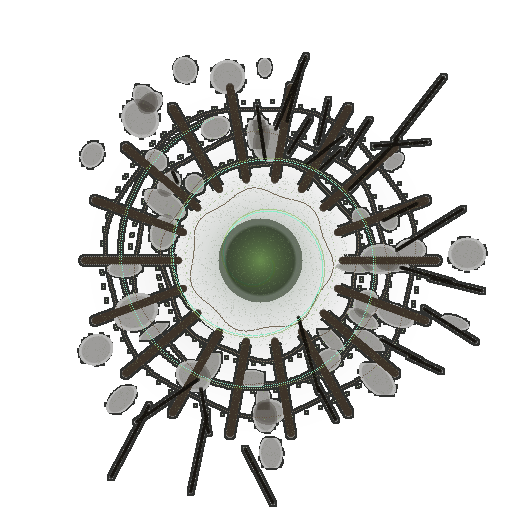
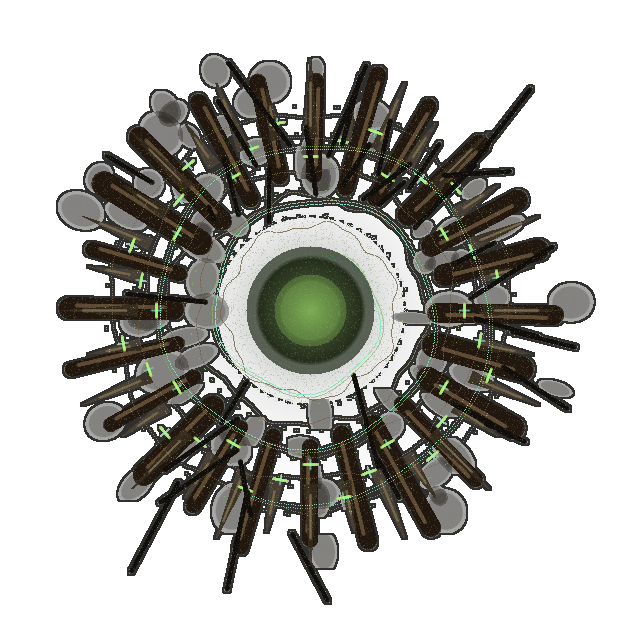
Make Slither center gate more imposing

diff --git a/scripts/generate-slither-assets.js b/scripts/generate-slither-assets.js
@@ -227,40 +227,74 @@ function oculusHorror() {
 }
 
 function seal() {
-  const png = makePng(520, 520);
-  const c = 260;
-  glow(png, c, c, 190, rgba("b6ff78", 52));
-  glow(png, c, c, 115, rgba("8dffd5", 62));
-  for (let i = 0; i < 44; i += 1) {
+  const png = makePng(620, 620);
+  const c = 310;
+  glow(png, c, c, 240, rgba("b6ff78", 44));
+  glow(png, c, c, 132, rgba("8dffd5", 48));
+
+  for (let i = 0; i < 72; i += 1) {
     const a = noise(i, 1) * Math.PI * 2;
-    const r = 92 + noise(i, 3) * 118;
-    ellipse(png, c + Math.cos(a) * r, c + Math.sin(a) * r, 8 + noise(i, 4) * 16, 5 + noise(i, 5) * 14, rgba("2a2118", 105), a);
+    const r = 100 + noise(i, 3) * 165;
+    ellipse(png, c + Math.cos(a) * r, c + Math.sin(a) * r, 10 + noise(i, 4) * 18, 6 + noise(i, 5) * 16, rgba("1d1712", 130), a);
   }
-  for (let r = 70; r <= 172; r += 28) {
-    for (let a = 0; a < Math.PI * 2; a += 0.015) {
-      const wobble = Math.sin(a * 7 + r) * 3;
-      blend(png, c + Math.cos(a) * (r + wobble), c + Math.sin(a) * (r + wobble), rgba("6a5641", 205));
-      if (a % 0.09 < 0.02) blend(png, c + Math.cos(a) * (r + 5), c + Math.sin(a) * (r + 5), rgba("b6ff78", 125));
+
+  for (let i = 0; i < 24; i += 1) {
+    const a = (i / 24) * Math.PI * 2 + noise(i, 2) * 0.04;
+    const inner = 126 + noise(i, 8) * 12;
+    const outer = 218 + noise(i, 9) * 34;
+    const width = 7 + noise(i, 4) * 6;
+    line(png, c + Math.cos(a) * inner, c + Math.sin(a) * inner, c + Math.cos(a) * outer, c + Math.sin(a) * outer, rgba("21170f", 235), width);
+    line(png, c + Math.cos(a + 0.012) * (inner + 10), c + Math.sin(a + 0.012) * (inner + 10), c + Math.cos(a + 0.012) * (outer - 8), c + Math.sin(a + 0.012) * (outer - 8), rgba("5f4b34", 145), 2.1);
+  }
+
+  for (let i = 0; i < 32; i += 1) {
+    const a = (i / 32) * Math.PI * 2;
+    const r = i % 2 ? 208 : 228;
+    const w = i % 4 === 0 ? 24 : 18;
+    polygon(png, [
+      [c + Math.cos(a - 0.035) * 174, c + Math.sin(a - 0.035) * 174],
+      [c + Math.cos(a + 0.035) * 174, c + Math.sin(a + 0.035) * 174],
+      [c + Math.cos(a) * (r + w), c + Math.sin(a) * (r + w)]
+    ], rgba("34291d", 225));
+    line(png, c + Math.cos(a) * 184, c + Math.sin(a) * 184, c + Math.cos(a) * r, c + Math.sin(a) * r, rgba("80704f", 95), 1.4);
+  }
+
+  for (let r = 86; r <= 204; r += 28) {
+    for (let a = 0; a < Math.PI * 2; a += 0.012) {
+      const wobble = Math.sin(a * 7 + r) * 4 + Math.sin(a * 17) * 1.6;
+      const alpha = r % 56 === 0 ? 230 : 190;
+      blend(png, c + Math.cos(a) * (r + wobble), c + Math.sin(a) * (r + wobble), rgba("7b6748", alpha));
+      if (a % 0.105 < 0.018) blend(png, c + Math.cos(a) * (r + 7), c + Math.sin(a) * (r + 7), rgba("b6ff78", 145));
     }
   }
-  for (let i = 0; i < 18; i += 1) {
-    const a = (i / 18) * Math.PI * 2;
-    line(png, c + Math.cos(a) * 82, c + Math.sin(a) * 82, c + Math.cos(a) * 176, c + Math.sin(a) * 176, rgba("3d3329", 210), 4);
+
+  for (let i = 0; i < 36; i += 1) {
+    const a = (i / 36) * Math.PI * 2;
+    const r = 154 + (i % 3) * 18;
+    const x = c + Math.cos(a) * r;
+    const y = c + Math.sin(a) * r;
+    line(png, x - Math.sin(a) * 7, y + Math.cos(a) * 7, x + Math.sin(a) * 7, y - Math.cos(a) * 7, rgba("b6ff78", 118), 1.6);
+    line(png, x - Math.cos(a) * 5, y - Math.sin(a) * 5, x + Math.cos(a) * 5, y + Math.sin(a) * 5, rgba("8dffd5", 70), 1.1);
   }
-  for (let i = 0; i < 26; i += 1) {
+
+  for (let i = 0; i < 34; i += 1) {
     const a = noise(i, 8) * Math.PI * 2;
-    const r1 = 62 + noise(i, 9) * 140;
-    const r2 = r1 + 26 + noise(i, 10) * 54;
-    line(png, c + Math.cos(a) * r1, c + Math.sin(a) * r1, c + Math.cos(a + noise(i, 11) * 0.4 - 0.2) * r2, c + Math.sin(a + noise(i, 12) * 0.4 - 0.2) * r2, rgba("15120e", 145), 2);
+    const r1 = 70 + noise(i, 9) * 170;
+    const r2 = r1 + 30 + noise(i, 10) * 70;
+    line(png, c + Math.cos(a) * r1, c + Math.sin(a) * r1, c + Math.cos(a + noise(i, 11) * 0.42 - 0.21) * r2, c + Math.sin(a + noise(i, 12) * 0.42 - 0.21) * r2, rgba("100d0a", 170), 2.6);
   }
-  for (let a = 0; a < Math.PI * 5.4; a += 0.016) {
-    const r = 10 + a * 8.2;
-    blend(png, c + Math.cos(a) * r, c + Math.sin(a) * r, rgba("8dffd5", 230));
-    blend(png, c + Math.cos(a) * (r + 2), c + Math.sin(a) * (r + 2), rgba("b6ff78", 140));
+
+  for (let a = 0; a < Math.PI * 6.6; a += 0.012) {
+    const r = 12 + a * 8.8;
+    const wobble = Math.sin(a * 5) * 3;
+    blend(png, c + Math.cos(a) * (r + wobble), c + Math.sin(a) * (r + wobble), rgba("8dffd5", 220));
+    blend(png, c + Math.cos(a) * (r + wobble + 3), c + Math.sin(a) * (r + wobble + 3), rgba("b6ff78", 132));
   }
-  ellipse(png, c, c, 42, 42, rgba("14190f", 210));
-  glow(png, c, c, 58, rgba("b6ff78", 110));
-  speckle(png, rgba("a1bf80", 62), 0.89, 61);
+
+  ellipse(png, c, c, 64, 64, rgba("0c0f08", 240));
+  glow(png, c, c, 86, rgba("b6ff78", 124));
+  ellipse(png, c, c, 36, 36, rgba("b6ff78", 80));
+  speckle(png, rgba("a1bf80", 70), 0.87, 61);
   return png;
 }
 

diff --git a/android/app/src/main/assets/www/app.js b/android/app/src/main/assets/www/app.js
@@ -1207,7 +1207,7 @@ function drawStationBaseSprite() {
   const image = stationSpriteImages.base;
   if (!image || !image.complete || !image.naturalWidth) return false;
 
-  const width = 214;
+  const width = 240;
   const height = width * (image.naturalHeight / image.naturalWidth);
   ctx.save();
   ctx.shadowColor = colors.cyan;

diff --git a/app.js b/app.js
@@ -1207,7 +1207,7 @@ function drawStationBaseSprite() {
   const image = stationSpriteImages.base;
   if (!image || !image.complete || !image.naturalWidth) return false;
 
-  const width = 214;
+  const width = 240;
   const height = width * (image.naturalHeight / image.naturalWidth);
   ctx.save();
   ctx.shadowColor = colors.cyan;
